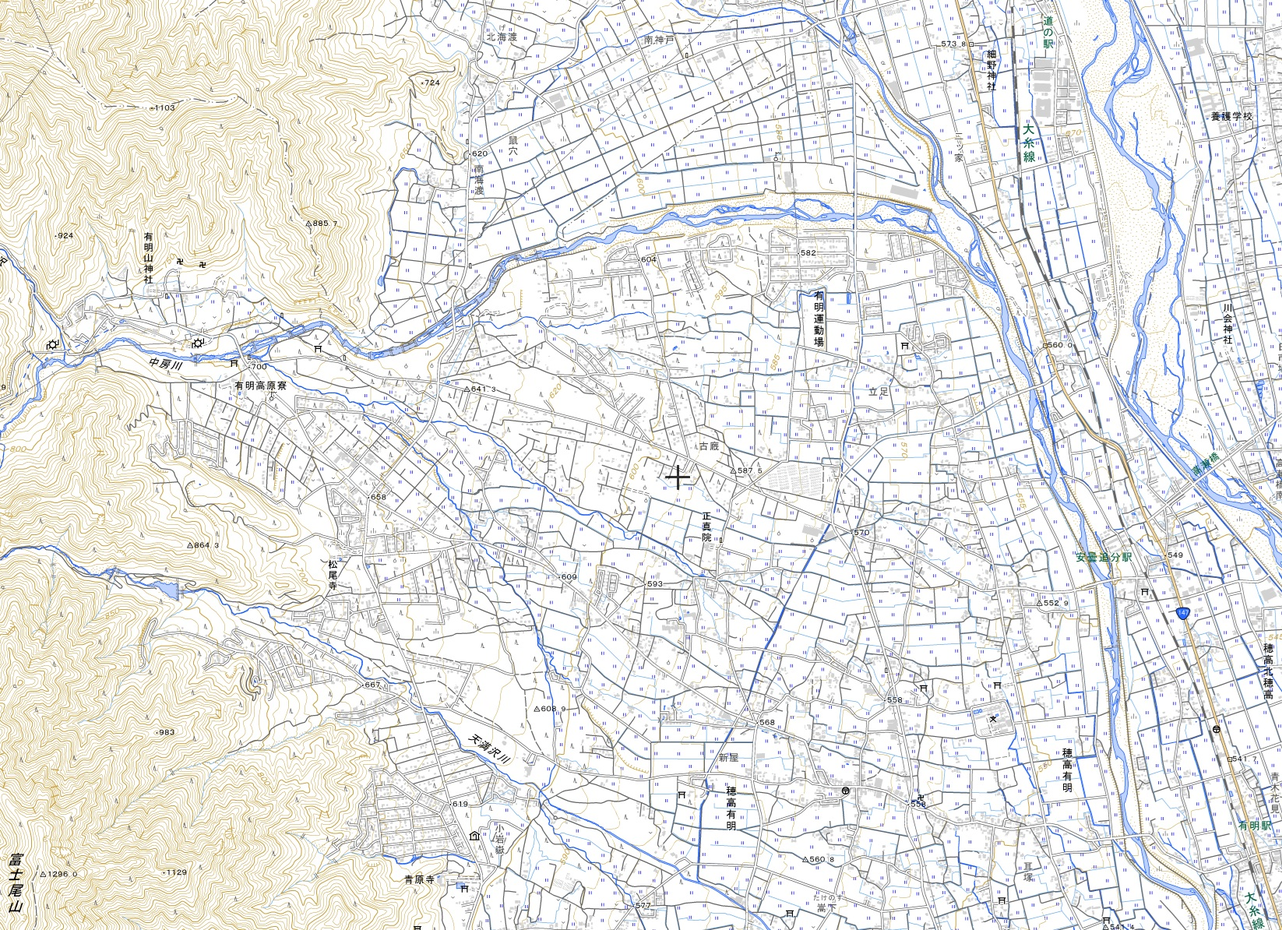
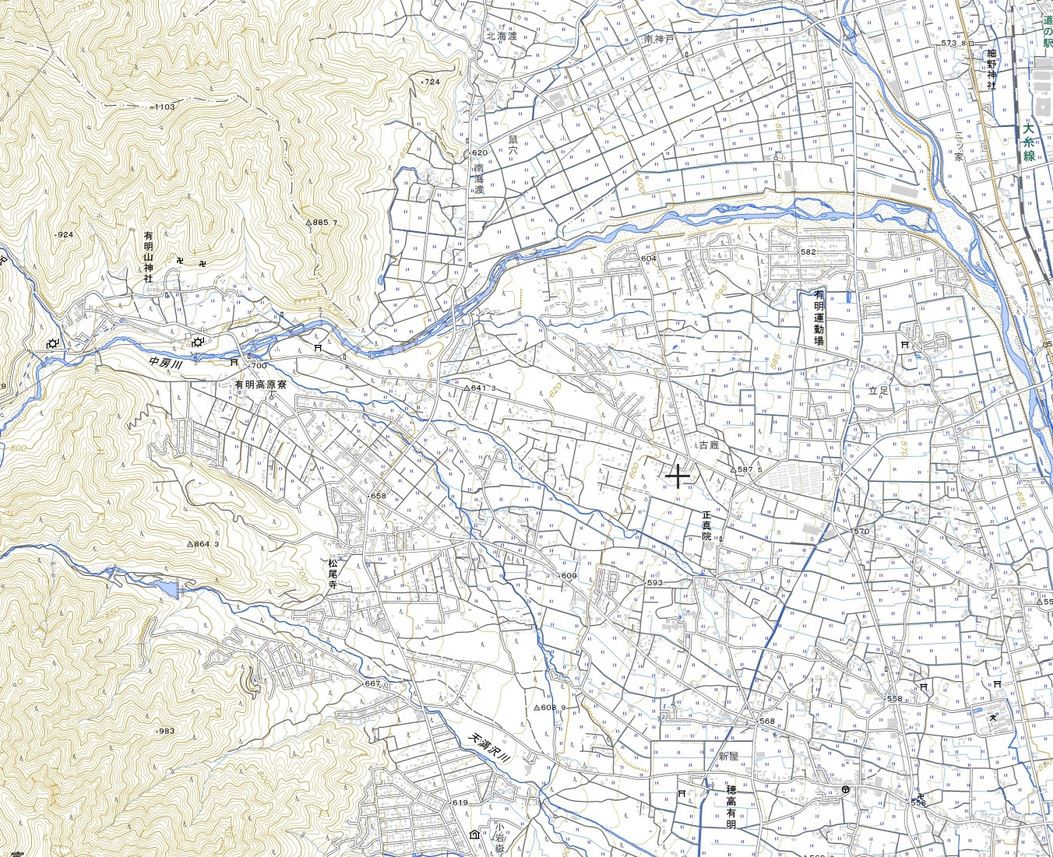
Add files via upload

diff --git a/demo2.html b/demo2.html
@@ -17,14 +17,14 @@
 		.sousa{background-color: pink}
 		.kessoku{background-color: #444; color: white;}
 		.keikai{background-color: yellow}
-		#kijo01{position: absolute; left: 887px; top: 20px; }
-		#kijo02{position: absolute; left: 994px; top: 64px; }
-		#kijo03{position: absolute; left: 830px; top: 820px; }
-		#kijo04{position: absolute; left: 828px; top: 666px; }
-		#kijo05{position: absolute; left: 886px; top: 401px; }
-		#kijo06{position: absolute; left: 300px; top: 350px; }
-		#kijo07{position: absolute; left: 445px; top: 657px; }
-		#kijo08{position: absolute; left: 98px; top: 352px; }
+		#kijo01{position: absolute; left: 797px; top: 20px; }
+		#kijo02{position: absolute; left: 874px; top: 64px; }
+		#kijo03{position: absolute; left: 750px; top: 840px; }
+		#kijo04{position: absolute; left: 807px; top: 666px; }
+		#kijo05{position: absolute; left: 756px; top: 401px; }
+		#kijo06{position: absolute; left: 250px; top: 350px; }
+		#kijo07{position: absolute; left: 345px; top: 700px; }
+		#kijo08{position: absolute; left: 70px; top: 352px; }
 		#div_title{font-size: 16pt; color: #08f; position: absolute; left: 10px; top: 10px; }
 	</style>
 	<script>
@@ -52,7 +52,7 @@
 	</script>
 </head>
 <body>
-	<div id="map"><img src="map3.jpg" style="width: 1500px; height: 900px; "></div>
+	<div id="map"><img src="map3.jpg" style="height: 900px"></div>
 	<div id="div_title">安曇野有明土地改良区　水門監視システム</div>
 	<div id="ctrlPanel">
 		<div id="div_menu">
@@ -64,7 +64,7 @@
 			監視機能デモ
 		</div>
 		<div>
-			新堰頭首工
+			新堰頭首工<br>
 			<input type="button" name="btn1" onclick="ctlSuimon(1, 'tuujo')" class="tuujo" value="通常" >
 			<input type="button" name="btn1" onclick="ctlSuimon(1, 'sousa')" class="sousa" value="操作">
 			<input type="button" name="btn1" onclick="ctlSuimon(1, 'kessoku')" class="kessoku" value="欠測">
@@ -72,7 +72,7 @@
 		</div>
 
 		<div>
-			新堰頭首工(土砂吐)
+			新堰頭首工(土砂吐)<br>
 			<input type="button" name="btn1" onclick="ctlSuimon(2, 'tuujo')" class="tuujo" value="通常" >
 			<input type="button" name="btn1" onclick="ctlSuimon(2, 'sousa')" class="sousa" value="操作">
 			<input type="button" name="btn1" onclick="ctlSuimon(2, 'kessoku')" class="kessoku" value="欠測">
@@ -80,7 +80,7 @@
 		</div>
 
 		<div>
-			新堰1号水位調整ゲート
+			新堰1号水位調整ゲート<br>
 			<input type="button" name="btn1" onclick="ctlSuimon(3, 'tuujo')" class="tuujo" value="通常" >
 			<input type="button" name="btn1" onclick="ctlSuimon(3, 'sousa')" class="sousa" value="操作">
 			<input type="button" name="btn1" onclick="ctlSuimon(3, 'kessoku')" class="kessoku" value="欠測">
@@ -88,7 +88,7 @@
 		</div>
 
 		<div>
-			新堰2号水位調整ゲート
+			新堰2号水位調整ゲート<br>
 			<input type="button" name="btn1" onclick="ctlSuimon(4, 'tuujo')" class="tuujo" value="通常" >
 			<input type="button" name="btn1" onclick="ctlSuimon(4, 'sousa')" class="sousa" value="操作">
 			<input type="button" name="btn1" onclick="ctlSuimon(4, 'kessoku')" class="kessoku" value="欠測">
@@ -96,7 +96,7 @@
 		</div>
 
 		<div>
-			新堰3号水位調整ゲート
+			新堰3号水位調整ゲート<br>
 			<input type="button" name="btn1" onclick="ctlSuimon(5, 'tuujo')" class="tuujo" value="通常" >
 			<input type="button" name="btn1" onclick="ctlSuimon(5, 'sousa')" class="sousa" value="操作">
 			<input type="button" name="btn1" onclick="ctlSuimon(5, 'kessoku')" class="kessoku" value="欠測">
@@ -104,7 +104,7 @@
 		</div>
 
 		<div>
-			大戸井第2取水口
+			大戸井第2取水口<br>
 			<input type="button" name="btn1" onclick="ctlSuimon(6, 'tuujo')" class="tuujo" value="通常" >
 			<input type="button" name="btn1" onclick="ctlSuimon(6, 'sousa')" class="sousa" value="操作">
 			<input type="button" name="btn1" onclick="ctlSuimon(6, 'kessoku')" class="kessoku" value="欠測">
@@ -112,7 +112,7 @@
 		</div>
 
 		<div>
-			富田堰頭首工
+			富田堰頭首工<br>
 			<input type="button" name="btn1" onclick="ctlSuimon(7, 'tuujo')" class="tuujo" value="通常" >
 			<input type="button" name="btn1" onclick="ctlSuimon(7, 'sousa')" class="sousa" value="操作">
 			<input type="button" name="btn1" onclick="ctlSuimon(7, 'kessoku')" class="kessoku" value="欠測">
@@ -120,7 +120,7 @@
 		</div>
 
 		<div>
-			松尾堰頭首工
+			松尾堰頭首工<br>
 			<input type="button" name="btn1" onclick="ctlSuimon(8, 'tuujo')" class="tuujo" value="通常" >
 			<input type="button" name="btn1" onclick="ctlSuimon(8, 'sousa')" class="sousa" value="操作">
 			<input type="button" name="btn1" onclick="ctlSuimon(8, 'kessoku')" class="kessoku" value="欠測">
